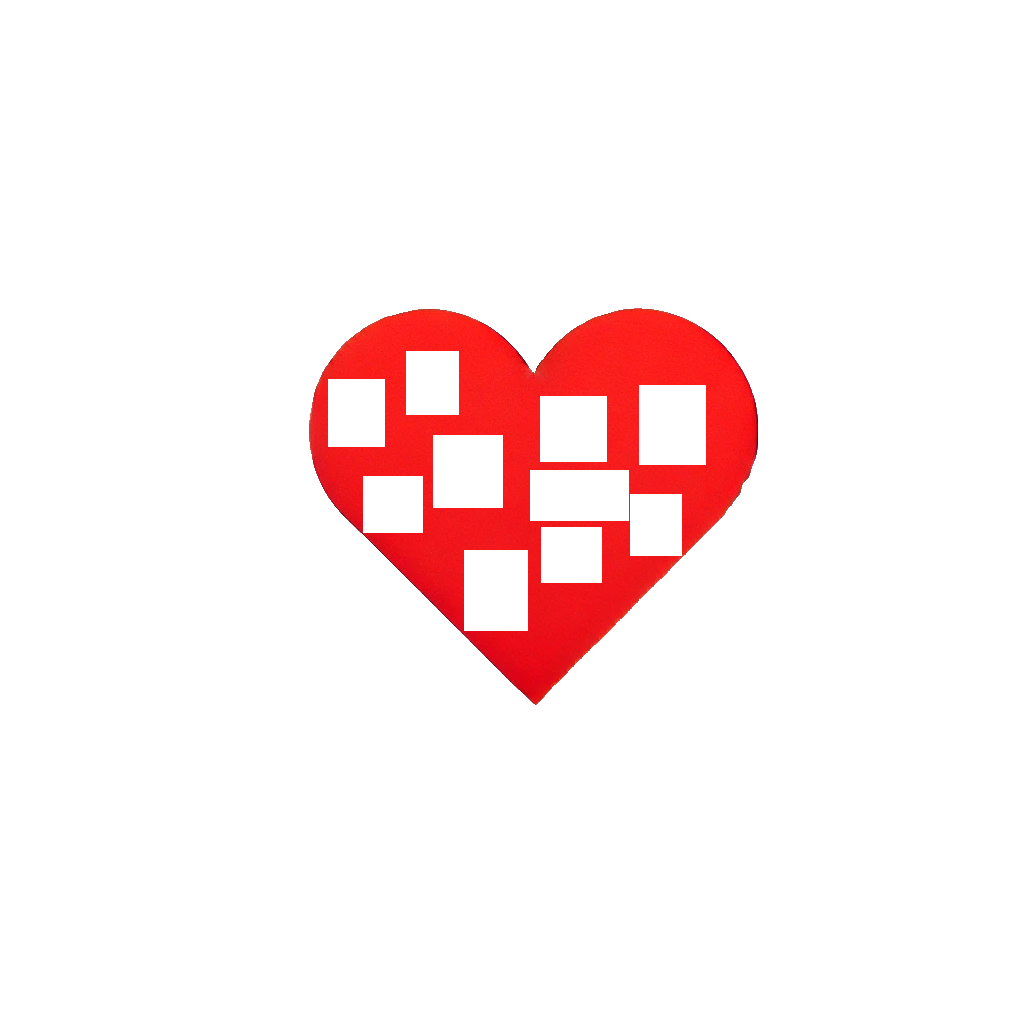
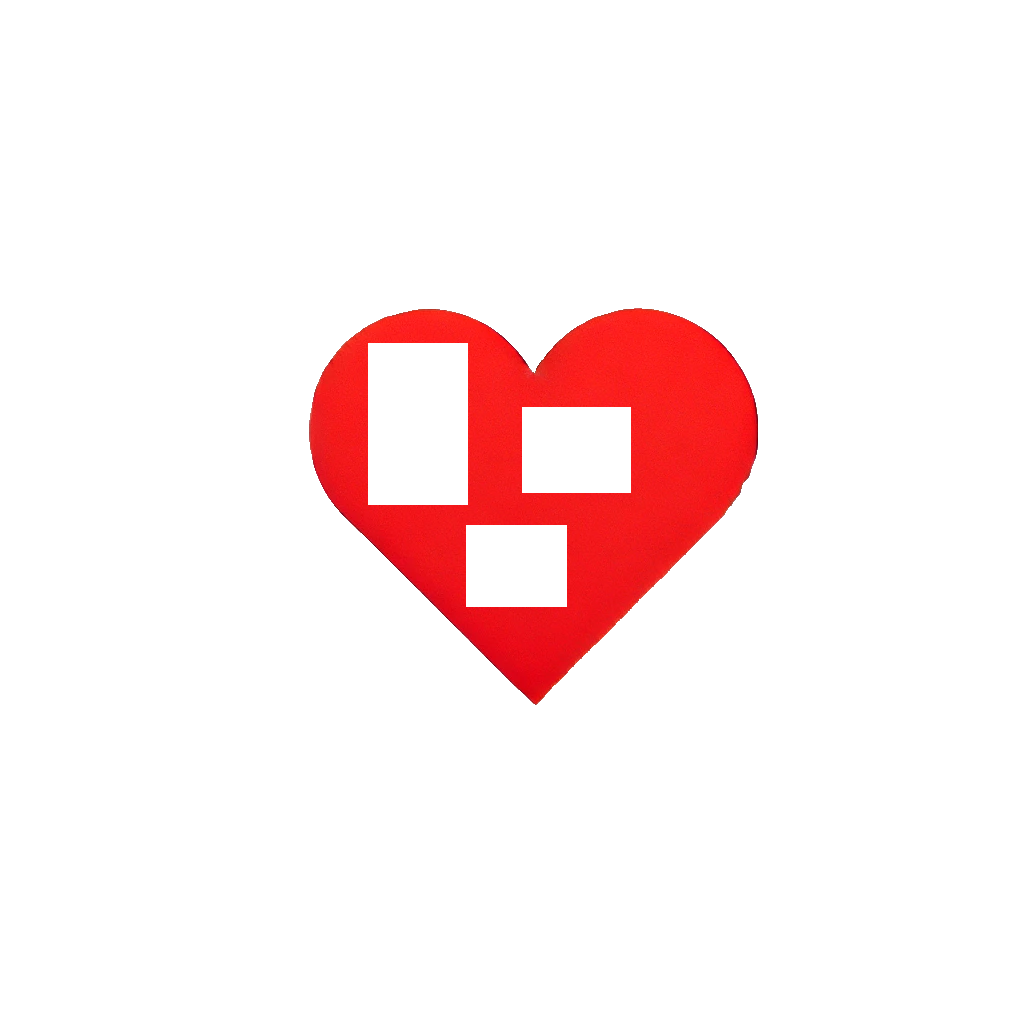
Added basic functionalities to extract a dark shape from an image with lighter background, fill it with a given number of white squares in given sizes and make these fillable with images using javascript. Also added a basic webapp using flask.

Changed region(s): [[0.3125, 0.3125, 0.6875, 0.625]]

diff --git a/main.py b/main.py
@@ -35,7 +35,7 @@ def make_background_transparent(path_to_image):
 
 
 ###########################################################################################
-def fill_with_random_squares(path_to_image,
+def fill_with_random_squares(path_to_image, buffer: int,
                              min_number_squares: int, max_number_squares: int,
                              min_square_width: int, max_square_width: int,
                              min_square_height: int, max_square_height: int):
@@ -48,7 +48,6 @@ def fill_with_random_squares(path_to_image,
     non_transparent_mask = (image_data[:, :, 3] > 0) & ~np.all(image_data[:, :, :3] == 255, axis=2)
     occupied_mask = np.zeros_like(non_transparent_mask, dtype=bool)
 
-    buffer = 1
     max_attempts = 1000
 
     draw = ImageDraw.Draw(image)
@@ -106,8 +105,8 @@ img_path = 'static/collage_output.jpg'
 make_background_transparent(img_path)
 
 img_transparent_path = 'static/original_with_transparent_areas.png'
-fill_with_random_squares(img_transparent_path,
-                         min_number_squares=5, max_number_squares=10,
-                         min_square_width=40, max_square_width=100,
-                         min_square_height=50, max_square_height=80)
+fill_with_random_squares(img_transparent_path, buffer=5,
+                         min_number_squares=3, max_number_squares=5,
+                         min_square_width=80, max_square_width=200,
+                         min_square_height=80, max_square_height=200)
 
